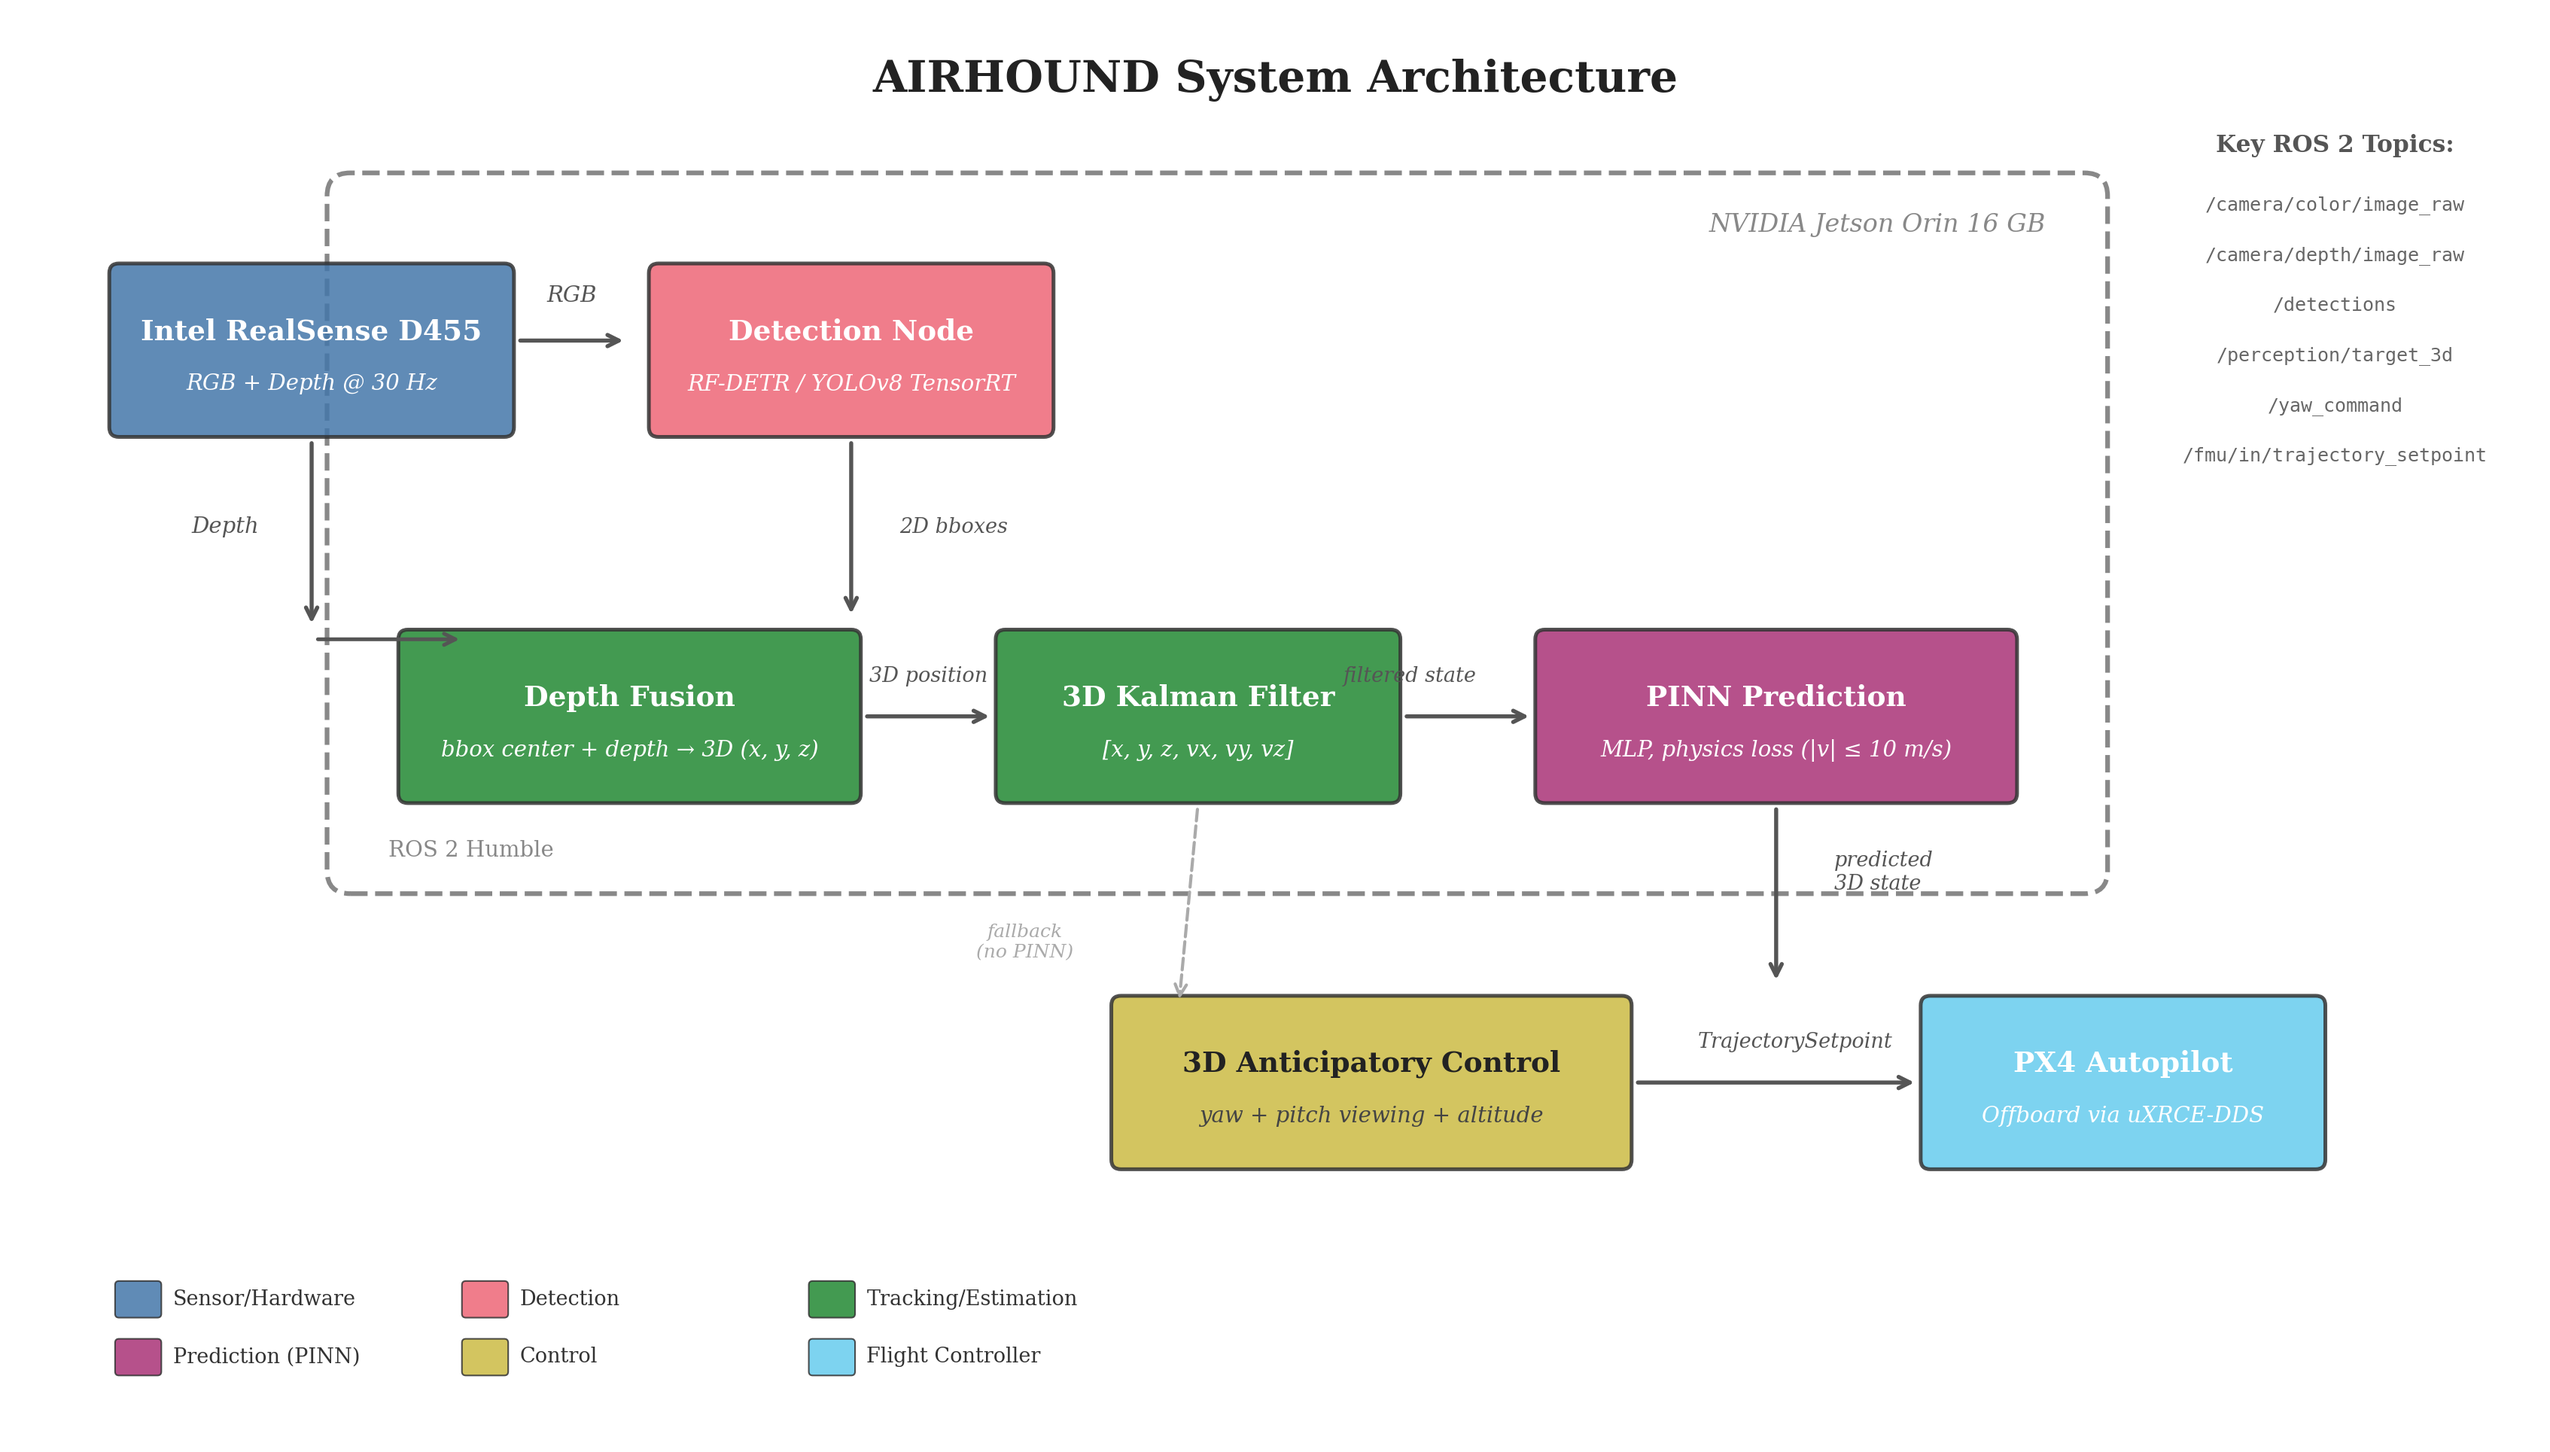
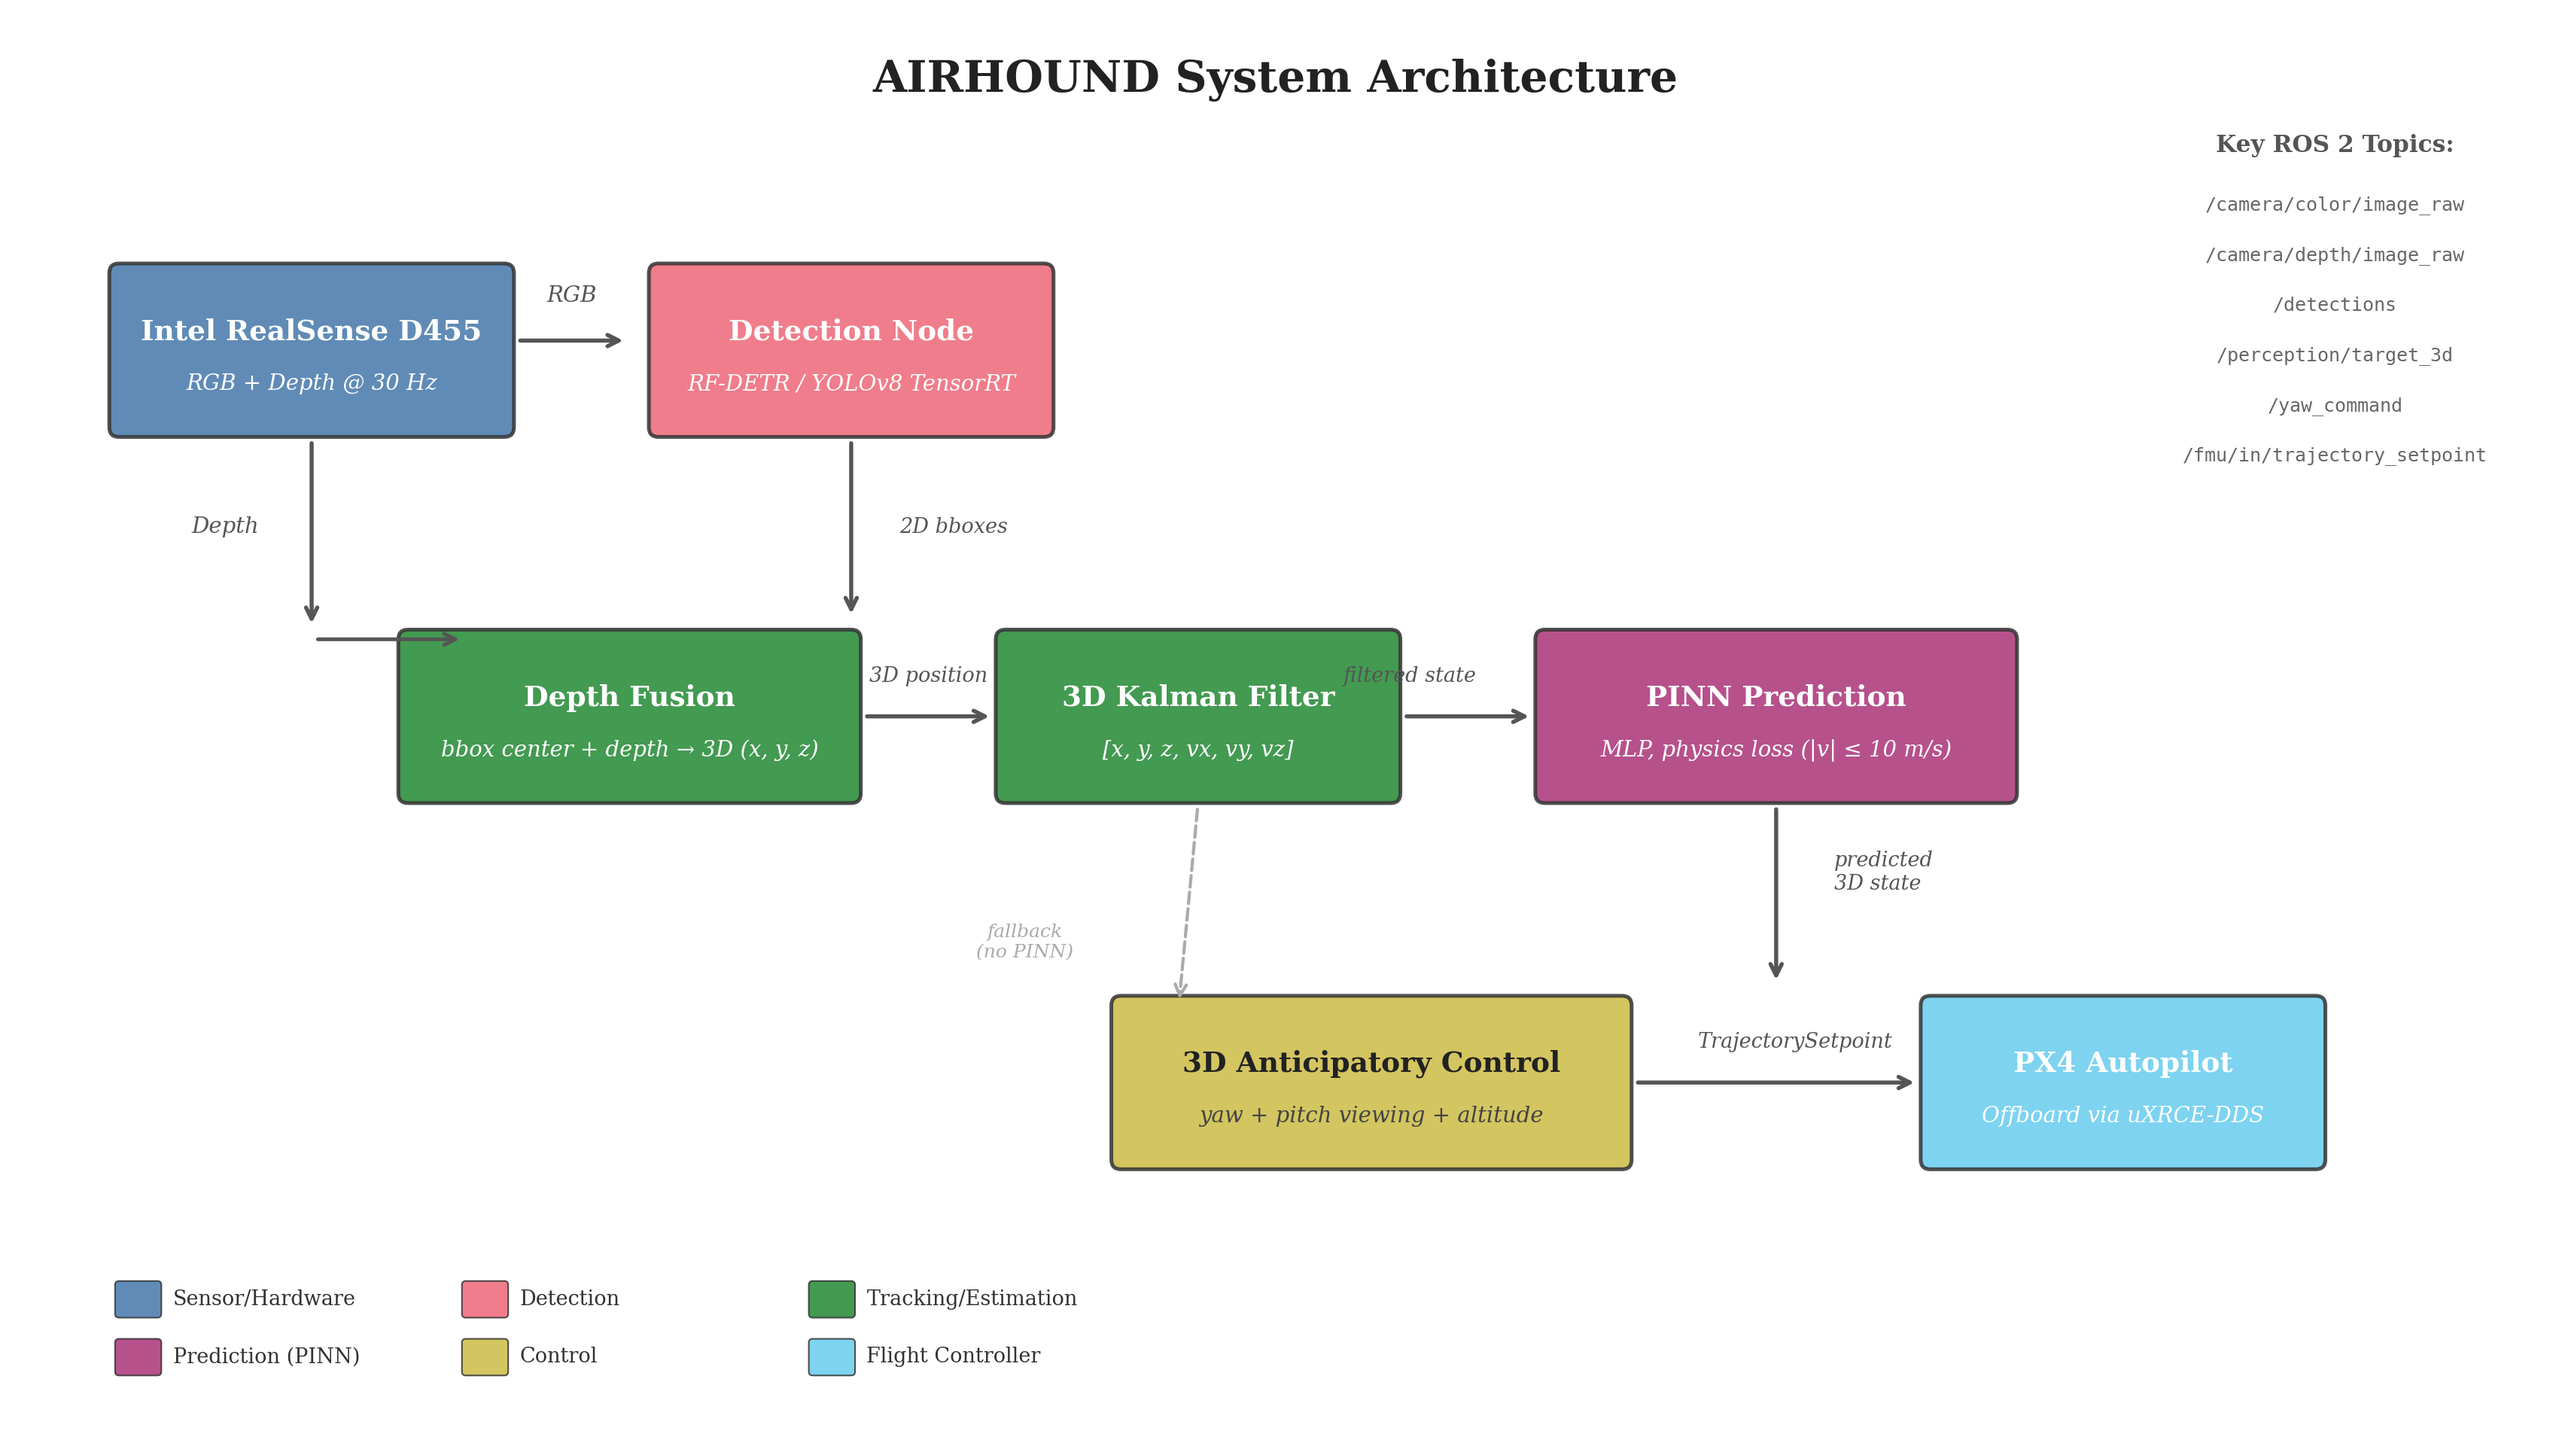
docs: update manuscript and architecture diagram; remove tracked __pycache__

Changed region(s): [[0.155, 0.5599, 0.2169, 0.591], [0.124, 0.591, 0.155, 0.6221]]

diff --git a/manuscript/main.tex b/manuscript/main.tex
@@ -11,8 +11,9 @@
 
 \documentclass[11pt,letterpaper]{article}
 
-% --- Page layout (approximate SPIE format) ---
-\usepackage[margin=1in]{geometry}
+% --- Page layout (SPIE letter-size format) ---
+\usepackage[left=0.88in, right=0.88in, top=1.0in, bottom=1.25in]{geometry}
+\pagenumbering{gobble} % SPIE: no page numbers
 
 % --- Fonts ---
 \usepackage{times}
@@ -56,10 +57,7 @@
 
 \title{Predictive Target Pursuit for Autonomous UAVs using RF-DETR with Depth-Aware State Estimation and Physics-Informed Trajectory Prediction}
 
-\author{
-    % Author list TBD - add all team members
-    % Embry-Riddle Aeronautical University, Daytona Beach, FL
-}
+\author{}
 
 \date{}
 \maketitle
@@ -68,6 +66,8 @@
 \begin{abstract}
 Autonomous UAV target pursuit requires robust detection, state estimation, and control under conditions where visual input degrades or disappears entirely. We present AIRHOUND, an onboard perception-to-control pipeline for single-target drone tracking that runs entirely on an NVIDIA Jetson Orin. The system integrates two detection architectures---RF-DETR (transformer-based) and YOLOv8n (CNN-based)---with Intel RealSense D455 stereo depth for 3D state estimation, a 6-state Kalman filter for temporal smoothing, and a physics-informed neural network (PINN) for trajectory prediction during detection dropout. We evaluate both detectors under four synthetic degradation types (Gaussian noise, low light, motion blur, partial occlusion) at five severity levels. RF-DETR retains 75\% of its clean-baseline mAP at maximum noise severity, compared to 33\% for YOLOv8n, a +39.8 percentage point advantage attributable to the transformer attention mechanism's ability to aggregate global context from uncorrupted image regions. Both architectures run above 25~FPS on the Jetson Orin after TensorRT FP16 conversion. The PINN enforces a velocity magnitude constraint ($\|\mathbf{v}\| \leq 10$~m/s) during training, preventing physically implausible extrapolation during multi-second dropouts. The complete pipeline is validated in PX4 software-in-the-loop simulation with closed-loop yaw tracking, and hardware flight testing with real-time detection is in progress. All perception and tracking components are modular, configurable at runtime via a single YAML file, and communicate over standard ROS~2 interfaces.
 \end{abstract}
+
+\noindent\textbf{Keywords:} UAV target tracking, transformer object detection, physics-informed neural network, depth estimation, Kalman filter, ROS~2, edge computing, degradation robustness
 
 % ============================================================================
 \section{Introduction}
@@ -149,7 +149,7 @@ The pipeline consists of five primary nodes:
 
     \item \textbf{Tracking Node} (\texttt{yaw\_error\_node}): Subscribes to \texttt{/detections}, computes horizontal pixel offset from image center, converts to angular error using camera intrinsics, and publishes yaw rate commands on \texttt{/yaw\_command}. Includes a proportional controller with configurable deadband and rate limits. When detections are absent, the node applies last-rate extrapolation as a short-term prediction.
 
-    \item \textbf{3D Kalman Filter}: A 6-state constant-velocity filter with state vector $\mathbf{x} = [x, y, z, v_x, v_y, v_z]^\top$. The filter uses a standard predict-update cycle with a discrete white noise acceleration process model. Mahalanobis gating rejects outlier measurements (threshold: $\chi^2_{3,0.997} \approx 3.0$), and the filter resets after 30 consecutive missed detections ($\sim$1~s at 30~Hz).
+    \item \textbf{3D Kalman Filter}: A 6-state constant-velocity filter with state vector $\mathbf{x} = [x, y, z, v_x, v_y, v_z]^\top$. The filter uses a standard predict-update cycle with a discrete white noise acceleration process model. Mahalanobis gating rejects outlier measurements ($d_M > 3.0$, corresponding to $\approx$97\% confidence for 3~DOF), and the filter resets after 30 consecutive missed detections ($\sim$1~s at 30~Hz).
 
     \item \textbf{Control Node} (\texttt{yaw\_controller\_node}): A C++ node that subscribes to \texttt{/yaw\_command}, constructs PX4 \texttt{TrajectorySetpoint} messages, and streams them at 10~Hz to maintain offboard mode. The current implementation controls yaw only; altitude and pitch viewing extensions are staged for Weeks~5--8 of the development timeline.
 \end{enumerate}
@@ -329,7 +329,7 @@ Outlier measurements are rejected using a Mahalanobis distance gate:
 \begin{equation}
     d_M = \sqrt{(\mathbf{z}_k - \mathbf{H}\hat{\mathbf{x}}_{k|k-1})^\top \mathbf{S}_k^{-1} (\mathbf{z}_k - \mathbf{H}\hat{\mathbf{x}}_{k|k-1})}
 \end{equation}
-where $\mathbf{S}_k = \mathbf{H} \mathbf{P}_{k|k-1} \mathbf{H}^\top + \mathbf{R}$ is the innovation covariance. Measurements with $d_M > 3.0$ are rejected ($\sim$99.7\% confidence for 3~DOF). After 30 consecutive rejected or missing measurements ($\sim$1~s at 30~Hz), the filter resets and reinitializes on the next valid detection.
+where $\mathbf{S}_k = \mathbf{H} \mathbf{P}_{k|k-1} \mathbf{H}^\top + \mathbf{R}$ is the innovation covariance. Measurements with $d_M > 3.0$ are rejected, corresponding to $d_M^2 > 9.0$; for a $\chi^2$ distribution with 3~degrees of freedom, this yields an approximately 97\% confidence boundary. After 30 consecutive rejected or missing measurements ($\sim$1~s at 30~Hz), the filter resets and reinitializes on the next valid detection.
 
 \subsection{Depth Quality Monitoring}
 \label{sec:depth_quality}
@@ -519,6 +519,11 @@ The automated analysis script computes the following from each recorded bag:
 
 For hardware flights, additional metrics include PINN vs.\ Kalman prediction accuracy (angular error at dropout recovery), depth estimation error relative to known target range, and end-to-end latency from frame capture to setpoint publication.
 
+\subsection{Use of AI-Assisted Tools}
+\label{sec:ai_tools}
+
+AI-assisted code completion tools (GitHub Copilot) were used during software development to accelerate boilerplate ROS~2 node scaffolding and Python utility functions. An LLM assistant (Anthropic Claude) was used for language editing and manuscript formatting. All technical content, experimental design, algorithmic architecture, mathematical derivations, and data analysis are the authors' own work. All AI-generated code was reviewed, tested, and validated by the authors before integration.
+
 % ============================================================================
 \section{Results}
 \label{sec:results}
@@ -573,9 +578,7 @@ Current work focuses on hardware flight validation using the Jetson Orin with a 
 
 % ============================================================================
 \section*{Acknowledgments}
-% Faculty advisor: Dr. Drakunov
-% EPPL Lab, Embry-Riddle Aeronautical University
-% SPIE Student Conference Support (if awarded)
+This work was conducted at the Engineering Physics Propulsion Lab (EPPL), Embry-Riddle Aeronautical University, under the direction of Dr.\ Sergey Drakunov.
 
 % ============================================================================
 \bibliographystyle{unsrtnat}

diff --git a/scripts/generate_architecture_diagram.py b/scripts/generate_architecture_diagram.py
@@ -216,32 +216,7 @@ def main():
              'PX4 Autopilot', 'Offboard via uXRCE-DDS',
              COLORS['px4'], bold=True)
 
-    # === Jetson Orin box (encompassing processing nodes) ===
-    jetson_box = FancyBboxPatch(
-        (1.2, 2.1), 9.0, 3.5,
-        boxstyle="round,pad=0.12",
-        facecolor='none',
-        edgecolor='#888888',
-        linewidth=1.5,
-        linestyle='--',
-        zorder=0,
-    )
-    ax.add_patch(jetson_box)
-    ax.text(
-        10.0, 5.45,
-        'NVIDIA Jetson Orin 16 GB',
-        ha='right', va='center',
-        fontsize=8, color='#888888',
-        fontstyle='italic',
-    )
-
-    # === ROS2 label ===
-    ax.text(
-        1.4, 2.15,
-        'ROS 2 Humble',
-        ha='left', va='bottom',
-        fontsize=7, color='#888888',
-    )
+    # (Jetson Orin / ROS 2 Humble labels removed for readability)
 
     # === Kalman → Control direct path (fallback when PINN is bypassed) ===
     ax.annotate('', xy=(ctrl_x + 0.3, ctrl_y + bh), xytext=(kf_x + bw / 2, kf_y - 0.05),
